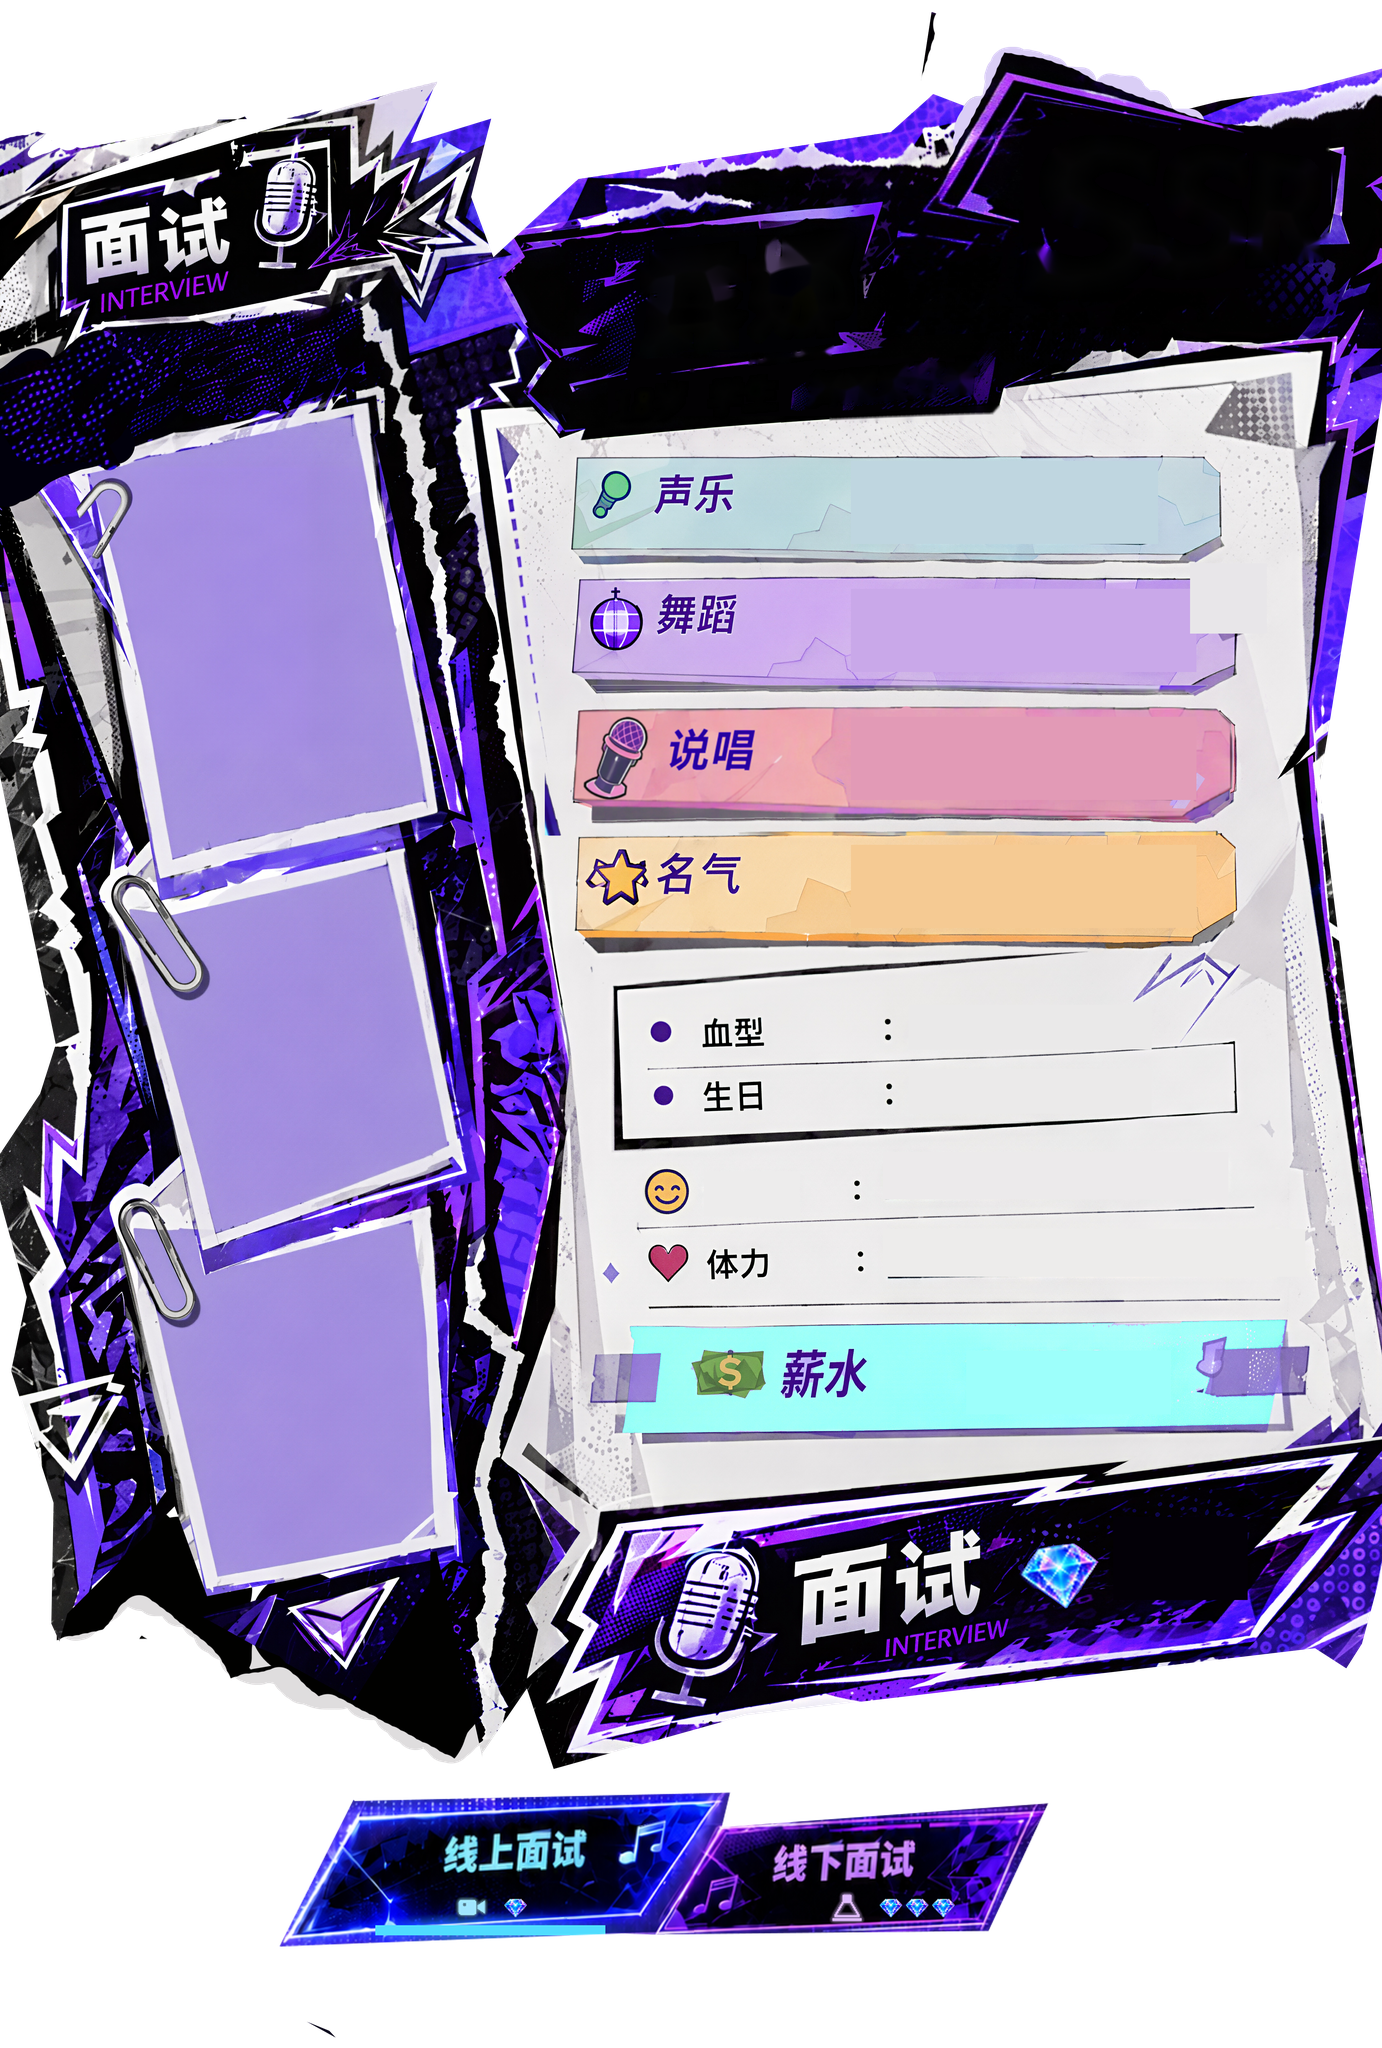
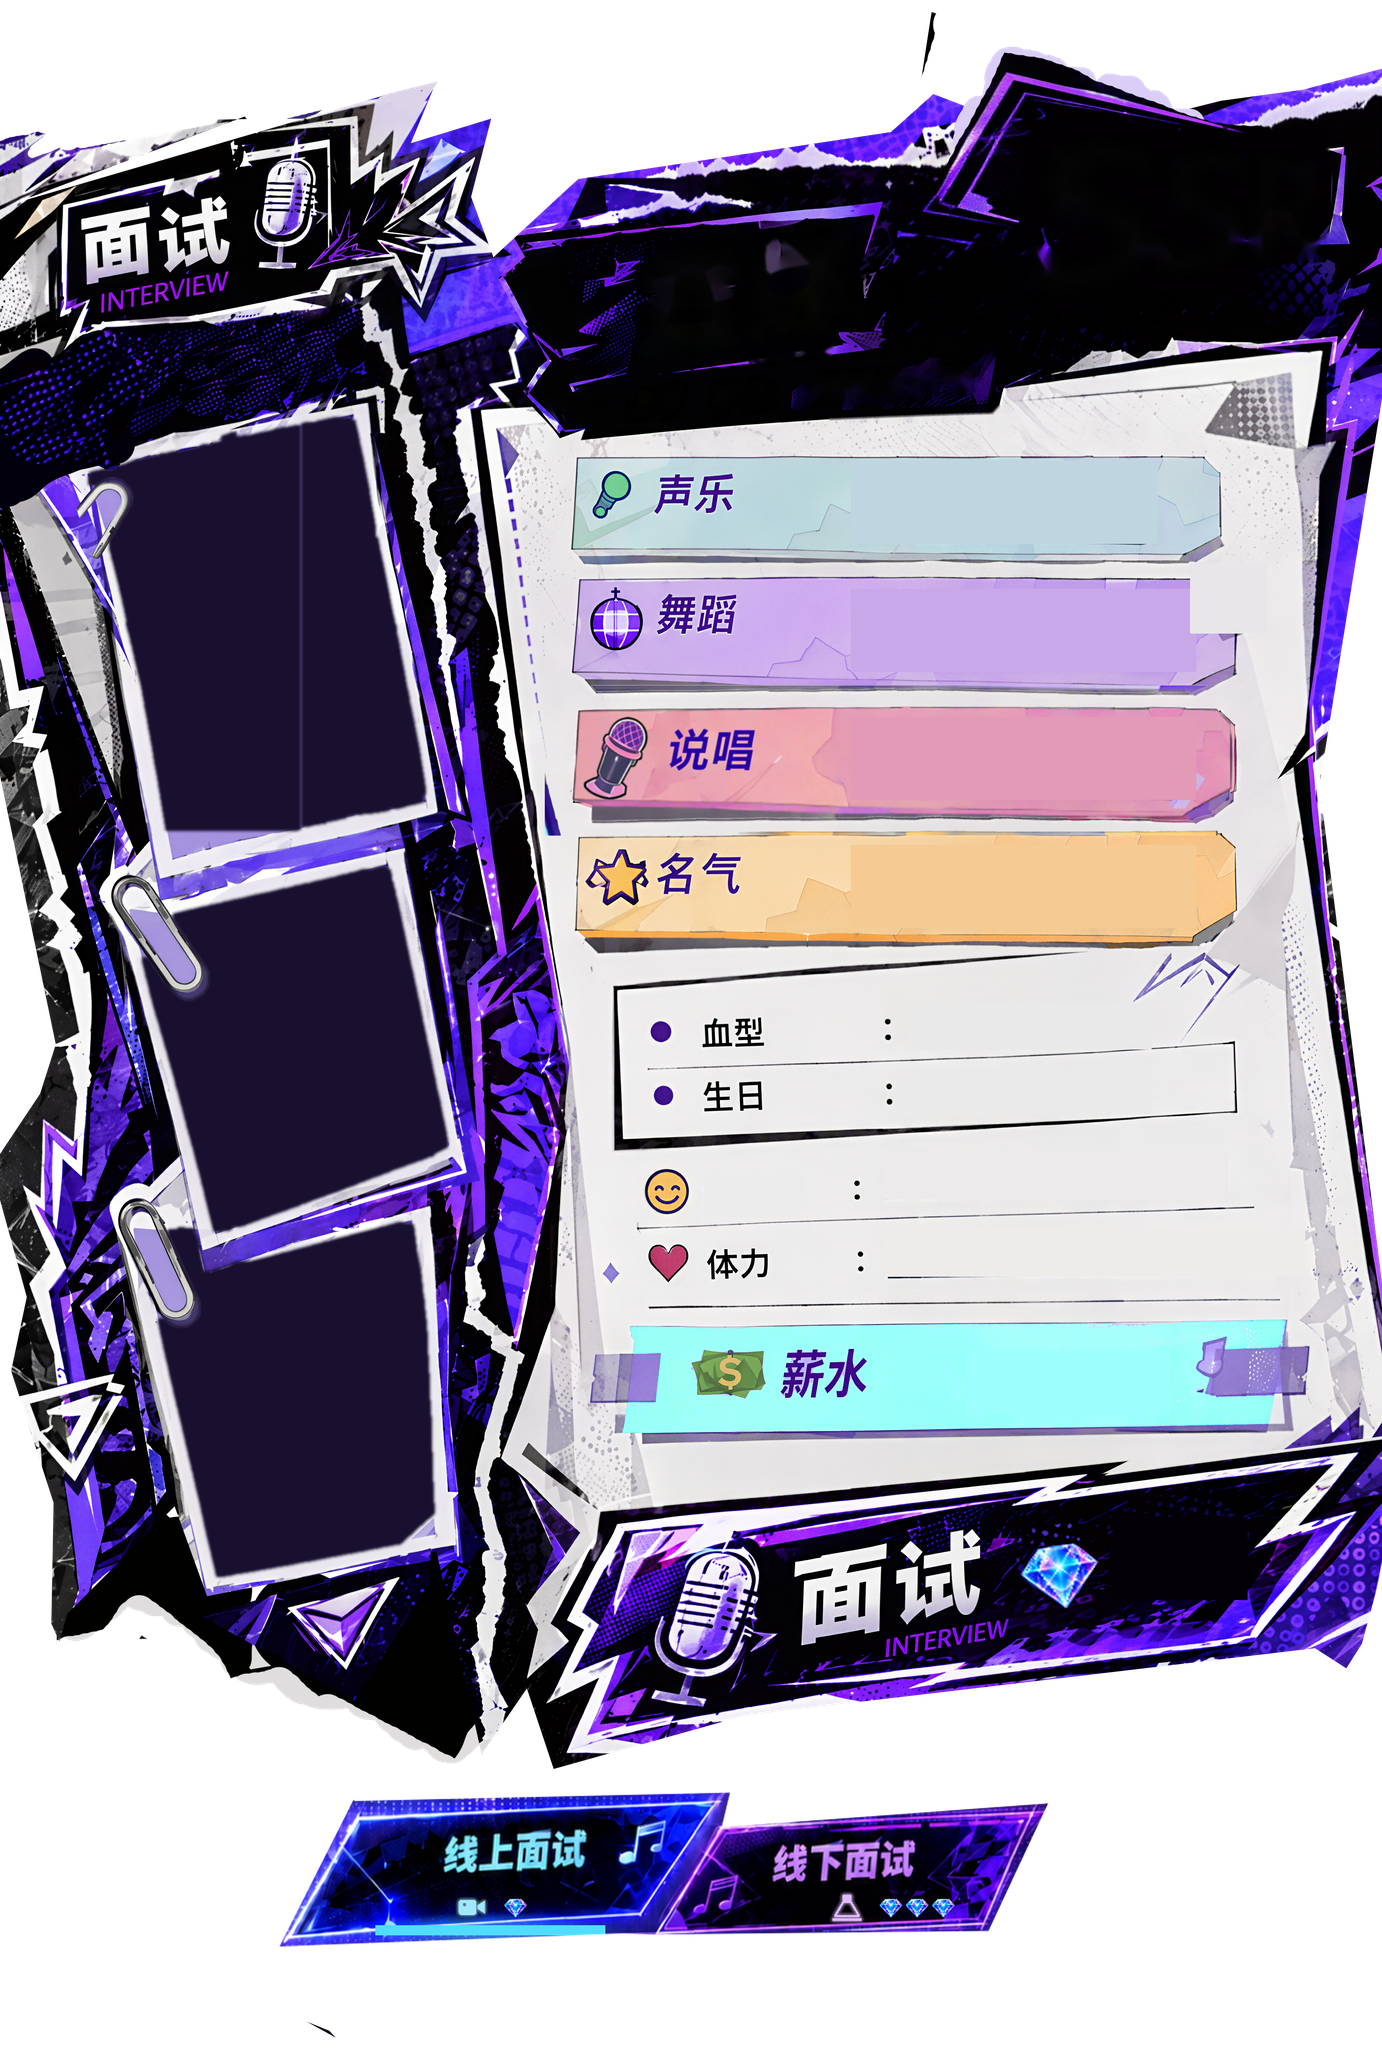
fix: 面试 ‹ › step one badge at a time (› throws the front one and the next grows in; ‹ tucks it back and the previous one swings in); empty badge slots on the board darkened

Changed region(s): [[0.0622, 0.1875, 0.3423, 0.7812]]

diff --git a/Assets/Scripts/UI/InterviewBadgeSwipe1108.cs b/Assets/Scripts/UI/InterviewBadgeSwipe1108.cs
@@ -20,6 +20,8 @@ namespace ChoSiren.UI
 
         /// <summary>Direction of the last throw; the next built badge enters from the stack with it.</summary>
         public static int PendingEntry;
+        /// <summary>Batch-mode tests keep the ‹ › arrows instant unless a test opts into the one-badge animations.</summary>
+        public static bool AnimateArrowsInBatch;
 
         RectTransform surface, front, back;
         CanvasGroup frontGroup;
@@ -36,7 +38,7 @@ namespace ChoSiren.UI
         public Action<int> TapPromote;
         float previousTime;
         // animation state
-        enum Mode { Idle, Home, Exit, Enter }
+        enum Mode { Idle, Home, Exit, Enter, Retreat }
         Mode mode;
         float time, swing;
         int direction;
@@ -59,6 +61,29 @@ namespace ChoSiren.UI
         }
 
         /// <summary>Horizontal part of the badge's drag offset (canvas units).</summary>
+        Vector2 frontBack, card1Back;
+        float frontBackScale = 1f, card1BackScale = 1f;
+        CanvasGroup card2Group;
+        const float RetreatSeconds = .34f;
+
+        /// <summary>Where the front badge and the first back card settle when ‹ steps back (window-matched places).</summary>
+        public void SetRetreat(Vector2 frontTarget, float frontScale, Vector2 firstTarget, float firstScale)
+        {
+            frontBack = frontTarget; frontBackScale = frontScale; card1Back = firstTarget; card1BackScale = firstScale;
+        }
+
+        /// <summary>‹: the front badge goes back into the stack, then the previous candidate swings in from the left.</summary>
+        public void Retreat()
+        {
+            if (Busy || allowed == null || !allowed() || card1 == null) return;
+            mode = Mode.Retreat; time = 0f;
+            if (card2 != null && card2Group == null)
+            {
+                card2Group = card2.GetComponent<CanvasGroup>();
+                if (card2Group == null) card2Group = card2.gameObject.AddComponent<CanvasGroup>();
+            }
+        }
+
         public float Offset => drag.x;
         /// <summary>2026-11-08 (少爷: "工牌可以任意角度拖动滑走"): the full 2-D drag offset.</summary>
         public Vector2 Drag => drag;
@@ -222,6 +247,29 @@ namespace ChoSiren.UI
                     }
                     break;
                 }
+                case Mode.Retreat:
+                {
+                    float t = Mathf.Clamp01(time / RetreatSeconds);
+                    float e = t * t * (3f - 2f * t);
+                    float arc = Mathf.Sin(t * Mathf.PI);
+                    if (front != null)
+                    {
+                        front.anchoredPosition = Vector2.LerpUnclamped(frontHome, frontBack, e) + new Vector2(-arc * 40f, 0f);
+                        front.localScale = Vector3.one * Mathf.Lerp(1f, frontBackScale, e);
+                        front.localRotation = frontRotation * Quaternion.Euler(0f, 0f, arc * 6f);
+                    }
+                    card1.anchoredPosition = Vector2.LerpUnclamped(card1Home, card1Back, e);
+                    card1.localScale = Vector3.one * Mathf.Lerp(1f, card1BackScale, e);
+                    if (card2Group != null) card2Group.alpha = 1f - e;
+                    if (card2 != null) card2.anchoredPosition = card2Home + new Vector2(0f, -40f * e);
+                    if (t >= 1f)
+                    {
+                        mode = Mode.Idle;
+                        PendingEntry = -1;
+                        changed?.Invoke(-1);
+                    }
+                    break;
+                }
                 case Mode.Enter:
                 {
                     float t = Mathf.Clamp01(time / EnterSeconds);
@@ -276,7 +324,7 @@ namespace ChoSiren.UI
         void OnDisable()
         {
             dragging = passVertical = false;
-            if (mode == Mode.Exit) PendingEntry = 0;
+            if (mode == Mode.Exit || mode == Mode.Retreat) PendingEntry = 0;
             mode = Mode.Idle;
             PoseAt(Vector2.zero, 0f, 1f, 1f, 0f, Vector2.zero);
         }

diff --git a/Assets/Scripts/Panels/GachaPanel.Interview1107.cs b/Assets/Scripts/Panels/GachaPanel.Interview1107.cs
@@ -288,14 +288,22 @@ namespace ChoSiren.Panels
                 float s1 = BadgeHoleSize1108.x * px0 / (BackHoleSize1108.x * px1);
                 Vector2 t1 = frontWindow - hole1 * s1;
                 Vector2 t2 = Vector2.zero; float s2 = 1f;
+                // ‹ (2026-11-08, "要一张一张的切换"): the reverse — the front badge settles into the first back card's place
+                // and that card into the second's.
+                Vector2 card1Window = c1.anchoredPosition + hole1;
+                Vector2 frontBack = card1Window - (frontWindow - badge.anchoredPosition) / s1;
+                Vector2 card1Back = c1.anchoredPosition; float card1BackScale = 1f;
                 if (c2 != null)
                 {
                     float px2 = c2.sizeDelta.x / 532f;
                     Vector2 hole2 = new Vector2(BackHoleCentre1108[1].x * px2, -BackHoleCentre1108[1].y * px2);
                     s2 = px1 / px2;
                     t2 = c1.anchoredPosition + hole1 - hole2 * s2;
+                    card1BackScale = 1f / s2;
+                    card1Back = c2.anchoredPosition + hole2 - hole1 * card1BackScale;
                 }
                 swipe.SetBackCards(c1, t1, s1, c2, t2, s2);
+                swipe.SetRetreat(frontBack, 1f / s1, card1Back, card1BackScale);
             }
             swipe.Configure(badge, stack, () => !closing && !promoting1108 && signModal == null && InterviewCandidates().Count > 1, MoveInterviewCandidate);
             // 2026-11-08 (少爷: "点击底部第一张要有这张到最顶部的动画"): a tapped back card flies up to the front.
@@ -313,10 +321,20 @@ namespace ChoSiren.Panels
             return swipe;
         }
 
-        /// <summary>‹ ›: change at once (the counter and buttons answer immediately); the new badge swings in from the stack.</summary>
+        /// <summary>
+        /// ‹ ›, one badge at a time (2026-11-08, 少爷: "不是一批一批的切换…要一张一张的切换"): › throws the front badge off while
+        /// the next one grows into its place; ‹ tucks the front badge back into the stack and the previous one swings in.
+        /// </summary>
         private void ThrowBadge1108(InterviewBadgeSwipe1108 swipe, int direction)
         {
-            if (InterviewCandidates().Count > 1) InterviewBadgeSwipe1108.PendingEntry = direction;
+            if (InterviewCandidates().Count <= 1) return;
+            if (swipe != null && swipe.StackPromotes && !ChoSiren.BattlePresentationOptions.ReduceMotion
+                && (!Application.isBatchMode || InterviewBadgeSwipe1108.AnimateArrowsInBatch))
+            {
+                if (direction > 0) swipe.Throw(1); else swipe.Retreat();
+                return;
+            }
+            InterviewBadgeSwipe1108.PendingEntry = direction;
             MoveInterviewCandidate(direction);
         }
 

diff --git a/Assets/Tests/PlayMode/PagePolish1108Tests.cs b/Assets/Tests/PlayMode/PagePolish1108Tests.cs
@@ -211,6 +211,33 @@ namespace ChoSiren.Tests
                 Assert.That(app.GetComponentsInChildren<Image>().First(i => i.name == "CandidatePortraitArt").sprite.texture.name, Is.EqualTo(nextName),
                     "the badge that came forward is the one now in front");
                 Capture(camera, target, "audition-after-swipe.png");
+
+                // 2026-11-08 (少爷: "要一张一张的切换"): › throws one badge (the next one comes up), ‹ tucks it back.
+                InterviewBadgeSwipe1108.AnimateArrowsInBatch = true;
+                try
+                {
+                    yield return new WaitForSecondsRealtime(.8f);
+                    string middle = app.GetComponentsInChildren<Image>().First(i => i.name == "BackCardPortrait"
+                        && i.GetComponentsInParent<Transform>().Any(t => t.name == "InterviewCard1")).sprite.texture.name;
+                    string front = app.GetComponentsInChildren<Image>().First(i => i.name == "CandidatePortraitArt").sprite.texture.name;
+                    app.GetComponentsInChildren<Button>().First(b => b.name == "NextCandidate").onClick.Invoke();
+                    yield return new WaitForSecondsRealtime(.12f);
+                    Capture(camera, target, "audition-arrow-next.png");
+                    yield return new WaitForSecondsRealtime(.4f);
+                    Assert.That(app.GetComponentsInChildren<Image>().First(i => i.name == "CandidatePortraitArt").sprite.texture.name,
+                        Is.EqualTo(middle), "› brings the second badge to the front");
+                    yield return new WaitForSecondsRealtime(.6f);
+                    app.GetComponentsInChildren<Button>().First(b => b.name == "PreviousCandidate").onClick.Invoke();
+                    yield return new WaitForSecondsRealtime(.18f);
+                    Capture(camera, target, "audition-arrow-previous.png");
+                    yield return new WaitForSecondsRealtime(.9f);
+                    Assert.That(app.GetComponentsInChildren<Image>().First(i => i.name == "CandidatePortraitArt").sprite.texture.name,
+                        Is.EqualTo(front), "‹ brings the previous badge back to the front");
+                    Assert.That(app.GetComponentsInChildren<Image>().First(i => i.name == "BackCardPortrait"
+                        && i.GetComponentsInParent<Transform>().Any(t => t.name == "InterviewCard1")).sprite.texture.name,
+                        Is.EqualTo(middle), "and the badge it replaced sits second again");
+                }
+                finally { InterviewBadgeSwipe1108.AnimateArrowsInBatch = false; }
             }
             finally { Object.DestroyImmediate(camera.gameObject); target.Release(); Object.DestroyImmediate(target); }
         }
